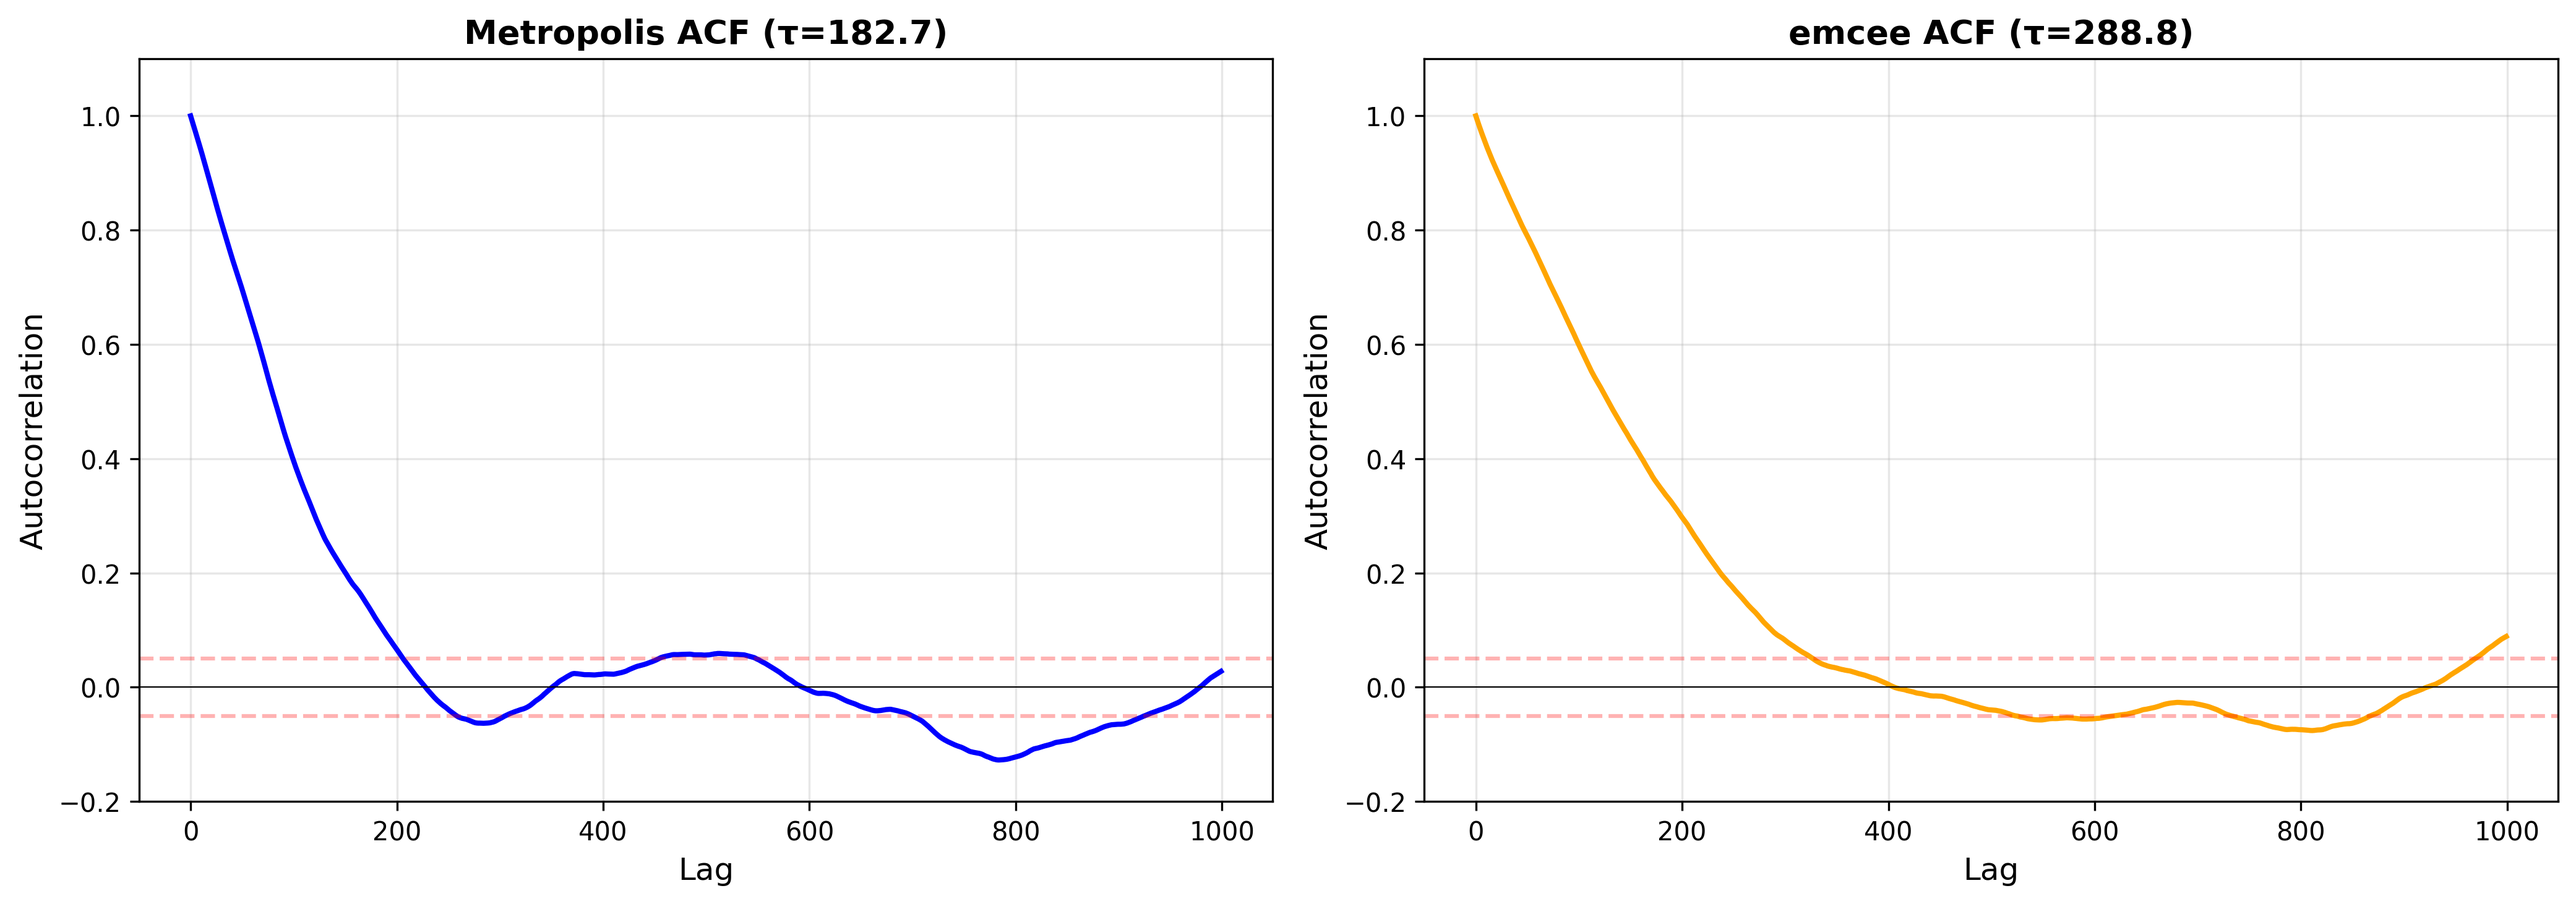
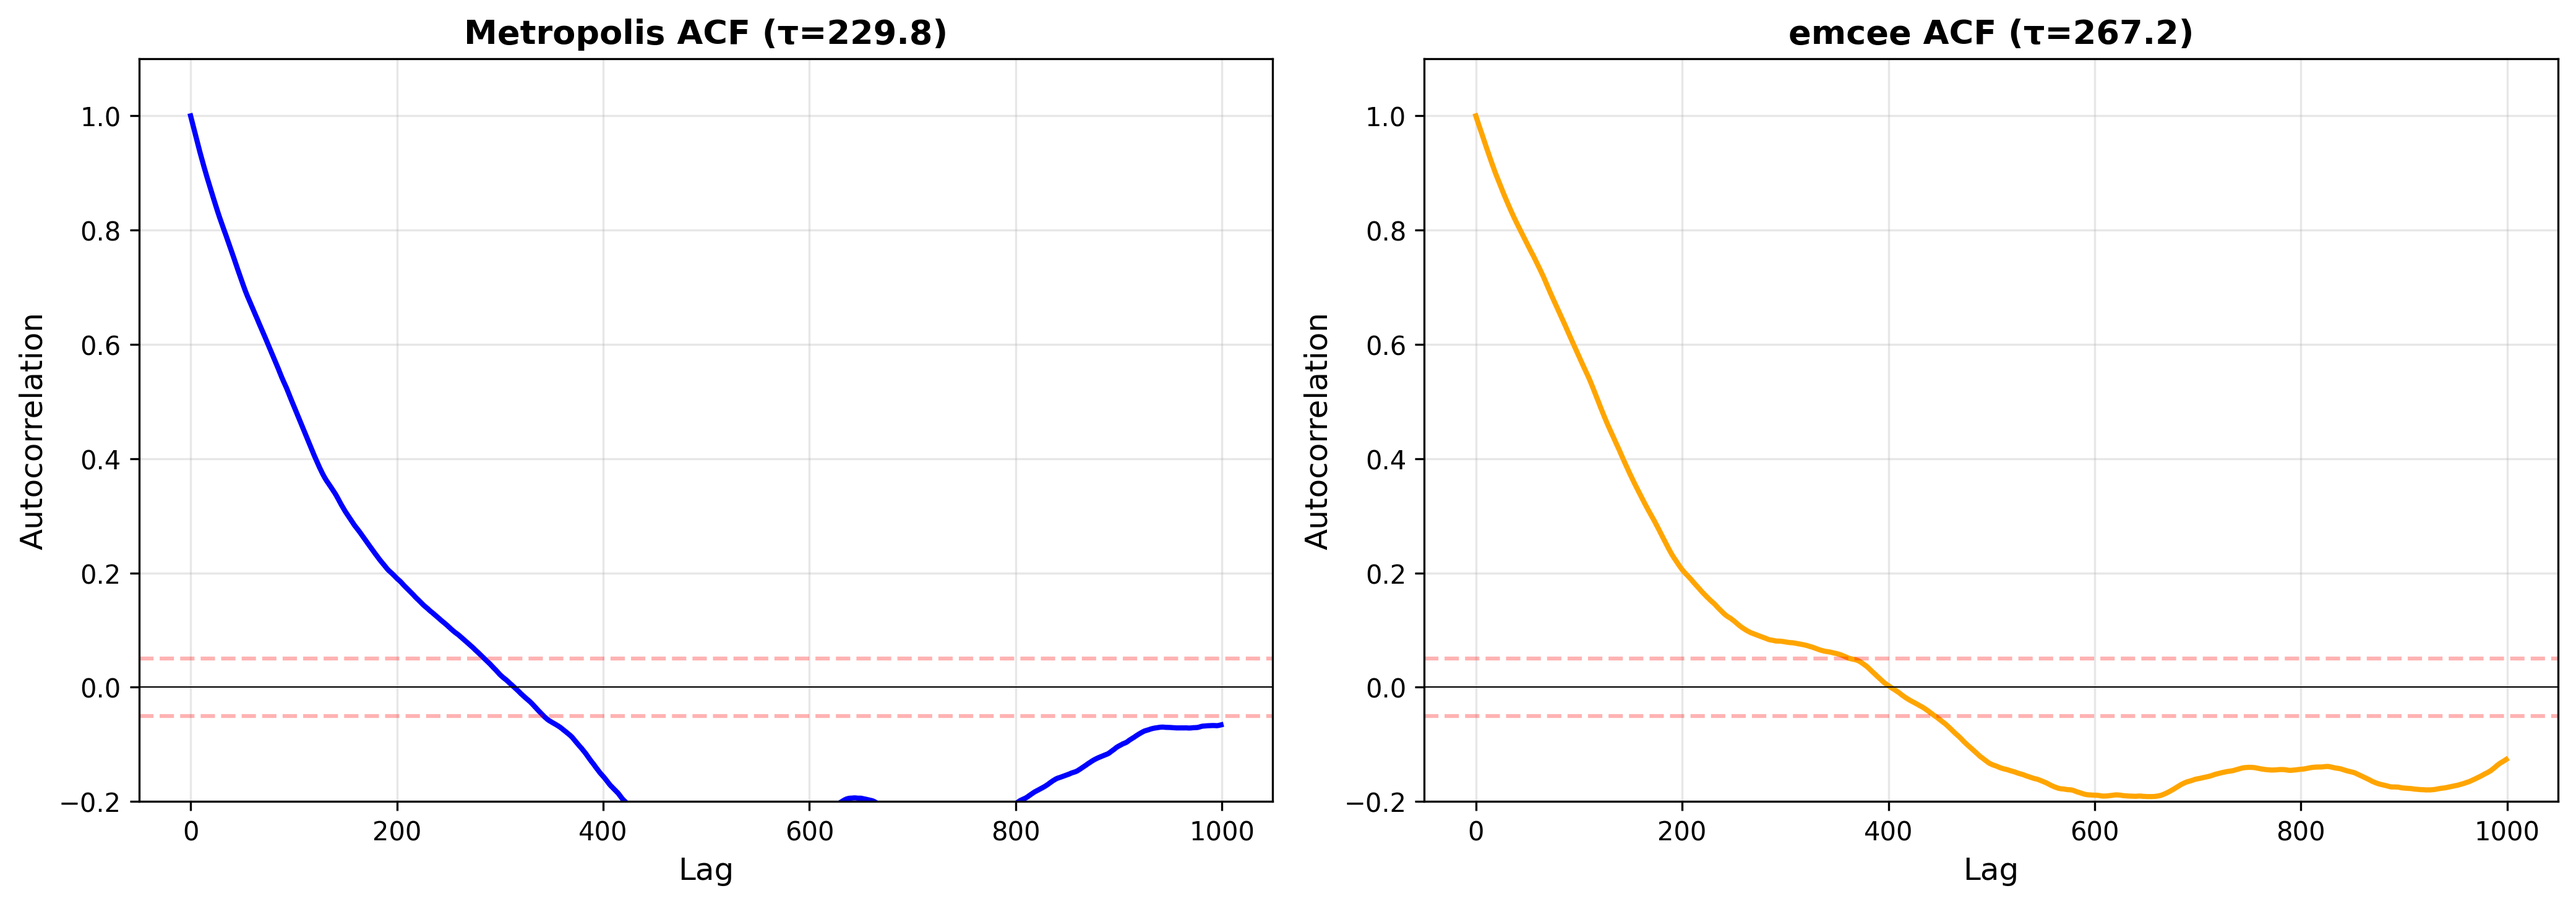
finished emcee

diff --git a/convergence.py b/convergence.py
@@ -286,6 +286,31 @@ plt.tight_layout()
 plt.savefig('acf_plot.png', dpi=300, bbox_inches='tight')
 print("Saved: acf_plot.png")
 """
+
+print("\n" + "="*70)
+print("SUMMARY COMPARISON")
+print("="*70)
+print(f"{'Metric':<30} {'Metropolis':<20} {'emcee':<20}")
+print("-"*70)
+print(f"{'R-hat (Magnetization)':<30} {R_hat:<20.4f} {R_hat_emcee:<20.4f}")
+print(f"{'τ (Magnetization)':<30} {tau:<20.2f} {tau_emcee:<20.2f}")
+print(f"{'ESS (Magnetization)':<30} {ess:<20.0f} {ess_emcee:<20.0f}")
+print(f"{'Converged?':<30} {'Yes' if R_hat < 1.1 else 'No':<20} {'Yes' if R_hat_emcee < 1.1 else 'No':<20}")
+print("="*70)
+
+# Calculate mean magnetization post-burn-in
+burn_idx = int(iterations * burn_frac)
+mag_postburn_metro = mag_chains_array[:, burn_idx:]
+mag_postburn_emcee = mag_chains_emcee[:, burn_idx:]
+
+mean_mag_metro = np.mean(np.abs(mag_postburn_metro))
+mean_mag_emcee = np.mean(np.abs(mag_postburn_emcee))
+
+print(f"\nPosterior Estimates (post-burn-in):")
+print(f"  Metropolis <|m|>: {mean_mag_metro:.4f}")
+print(f"  emcee <|m|>:      {mean_mag_emcee:.4f}")
+print(f"  Difference:       {abs(mean_mag_metro - mean_mag_emcee):.4f} ({abs(mean_mag_metro - mean_mag_emcee)/mean_mag_metro*100:.2f}%)")
+
 print("\nCreating comparison plots")
 
 # side-by-side trace plots
@@ -319,7 +344,7 @@ plt.tight_layout()
 plt.savefig('trace_comparison.png', dpi=300, bbox_inches='tight')
 print("Saved: trace_comparison.png")
 
-# 2. side-by-side ACF plots
+# side-by-side ACF plots
 fig, axes = plt.subplots(1, 2, figsize=(14, 5))
 
 # metropolis ACF
@@ -354,3 +379,4 @@ print("Saved: acf_comparison.png")
 
 
 plt.show()
+
